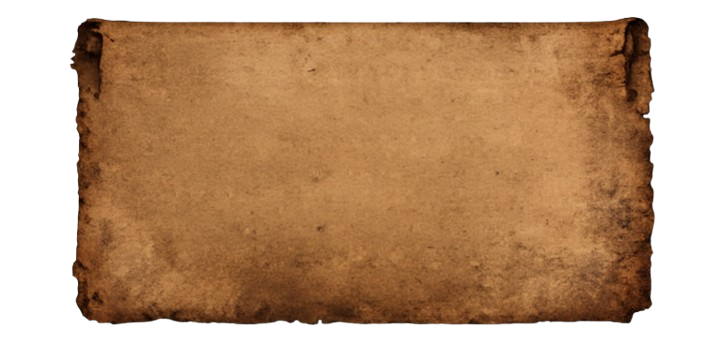
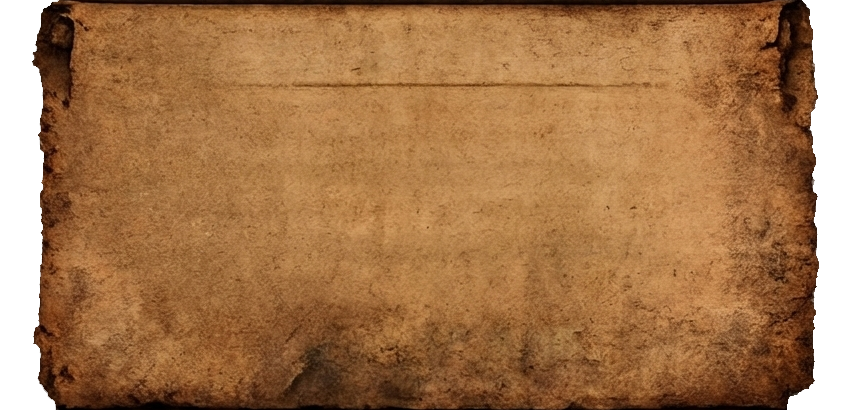
feat: Add grunge text effects and update getting-started page styling with a new background image.

diff --git a/getting-started.html b/getting-started.html
@@ -173,23 +173,17 @@
 
                     <div class="grid grid-cols-1 gap-8 text-left">
 
-                        <!-- Quick Start -->
                         <div
-                            class="group relative overflow-hidden rounded-xl border border-sosaria-gold/50 bg-[#1a1510] shadow-[0_0_20px_rgba(197,160,89,0.1)] h-full flex flex-col">
-                            <!-- Background Image -->
-                            <div
-                                class="absolute inset-0 bg-[url('assets/section-bg.png')] bg-cover bg-center opacity-20 group-hover:opacity-30 transition-opacity duration-300">
-                            </div>
-                            <div class="absolute inset-0 bg-gradient-to-b from-black/80 via-black/60 to-black/90"></div>
-
-                            <div class="relative z-10 p-8 flex flex-col h-full">
+                            class="h-[60vh] flex flex-col bg-[url('assets/section-bg.png')] bg-cover bg-center bg-no-repeat">
+                            <!-- Content Layer -->
+                            <div class="pl-40 py-10 flex flex-col h-full max-w-6xl">
                                 <h2
                                     class="font-medieval text-3xl text-gold-grunge brightness-200 mb-6 border-b border-white/10 pb-4">
                                     Quick Start <span
                                         class="text-xs font-sans text-stone-400 align-middle ml-2 tracking-widest uppercase">(Recommended)</span>
                                 </h2>
 
-                                <ul class="space-y-6 font-body text-stone-300 flex-1">
+                                <ul class="space-y-6 font-body text-2xl gold-text flex-1">
                                     <li class="flex gap-4 items-start">
                                         <span
                                             class="flex-shrink-0 w-8 h-8 rounded-full bg-sosaria-gold text-black font-bold flex items-center justify-center font-medieval">1</span>
@@ -215,7 +209,7 @@
                                 </ul>
 
                                 <a href="#"
-                                    class="mt-8 block w-fit px-10 py-4 text-center  text-gold-grunge brightness-200 font-medieval text-xl font-bold rounded border border-sosaria-gold/50 transition-transform  hover:scale-105 shadow-lg duration-400 uppercase tracking-widest">
+                                    class="mt-8 block w-fit px-10 py-4 text-center bg-gold-grunge  text-gold-grunge brightness-200 font-medieval text-xl font-bold rounded border border-sosaria-gold/25 transition-transform  hover:scale-105 shadow-lg duration-400 uppercase tracking-widest">
                                     Download Installer
                                 </a>
                             </div>
@@ -223,24 +217,21 @@
 
                         <!-- Manual Installation -->
                         <div
-                            class="group relative overflow-hidden rounded-xl border border-white/10 bg-[#1a1510] hover:border-white/30 transition-colors h-full flex flex-col">
-                            <div
-                                class="absolute inset-0 bg-[url('assets/section-bg.png')] bg-cover bg-center opacity-10 group-hover:opacity-20 transition-opacity duration-300">
-                            </div>
-                            <div class="absolute inset-0 bg-gradient-to-b from-black/90 via-black/80 to-black/95"></div>
+                            class="h-[60vh] flex flex-col bg-[url('assets/section-bg.png')] bg-cover bg-center bg-no-repeat">
+                           
 
-                            <div class="relative z-10 p-8 flex flex-col h-full">
-                                <h2 class="font-medieval text-2xl text-stone-400 mb-6 border-b border-white/10 pb-4">
+                            <div class="pl-40 py-10 flex flex-col h-full">
+                                <h2 class="font-medieval text-3xl text-gold-grunge brightness-200 mb-6 border-b border-white/10 pb-4">
                                     Manual Installation <span
-                                        class="text-xs font-sans text-stone-600 align-middle ml-2 tracking-widest uppercase">(Advanced
+                                        class="text-xs font-sans text-white align-middle ml-2 tracking-widest uppercase">(Advanced
                                         Users)</span></h2>
 
-                                <ul class="space-y-6 font-body text-stone-300 flex-1">
+                                <ul class="space-y-6 font-body gold-text text-2xl flex-1">
                                     <li class="flex gap-4 items-start">
                                         <span
                                             class="flex-shrink-0 w-8 h-8 rounded-full bg-[#0a0a0a] border border-white/10 text-stone-500 font-bold flex items-center justify-center font-medieval">1</span>
-                                        <span class="mt-1">Install a compatible <strong class="text-white">Ultima
-                                                Online client</strong>.</span>
+                                        <span class="mt-1  ">Install a compatible <strong class="text-white">Ultima Online
+                                                client</strong>.</span>
                                     </li>
                                     <li class="flex gap-4 items-start">
                                         <span

diff --git a/css/style.css b/css/style.css
@@ -148,3 +148,8 @@
   filter: drop-shadow(1px 1px 1px rgba(0, 0, 0, 0.8));
   font-weight: 500;
 }
+
+.gold-text {
+  color: #C9A24D;
+  text-shadow: 0 1px 1px rgba(0,0,0,0.4);
+}
